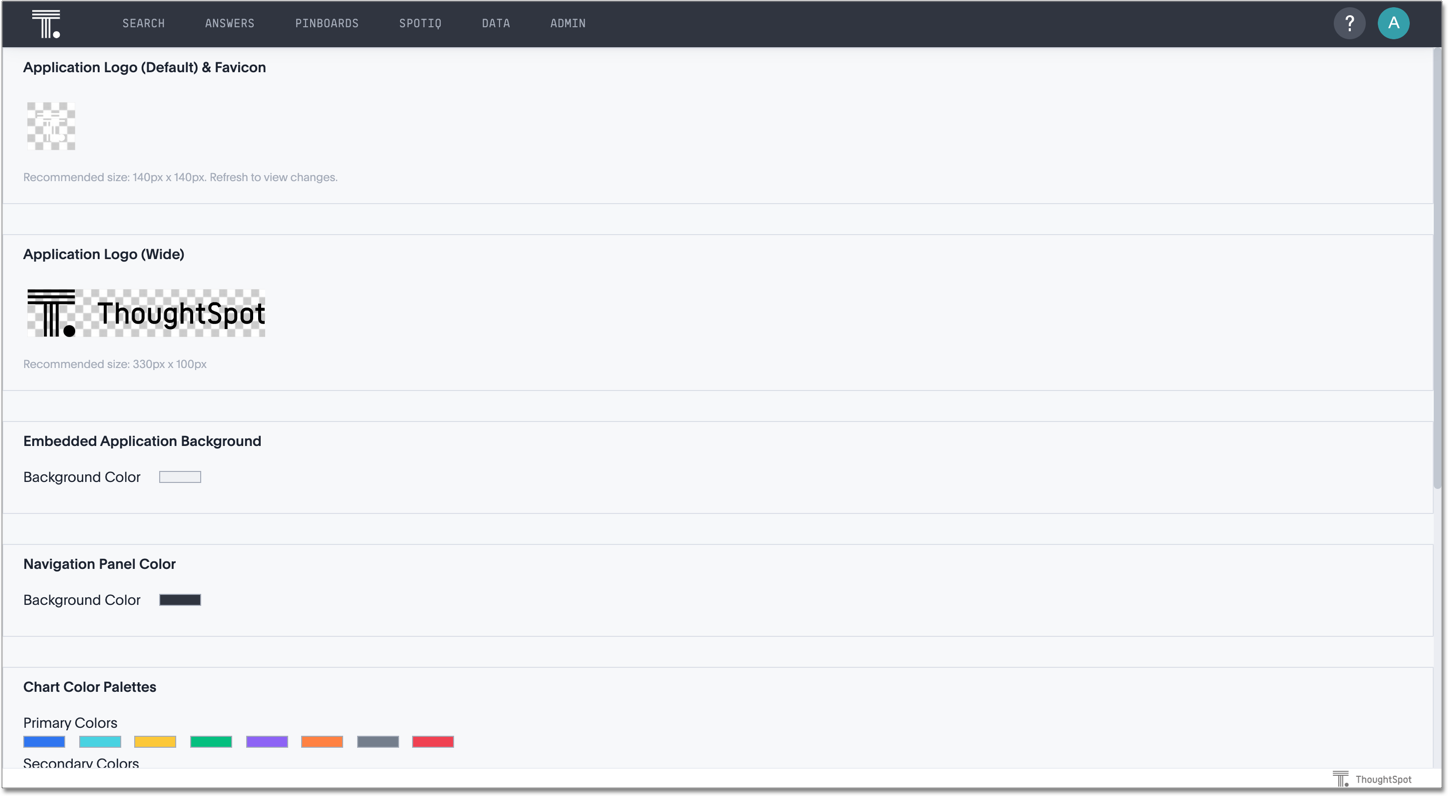
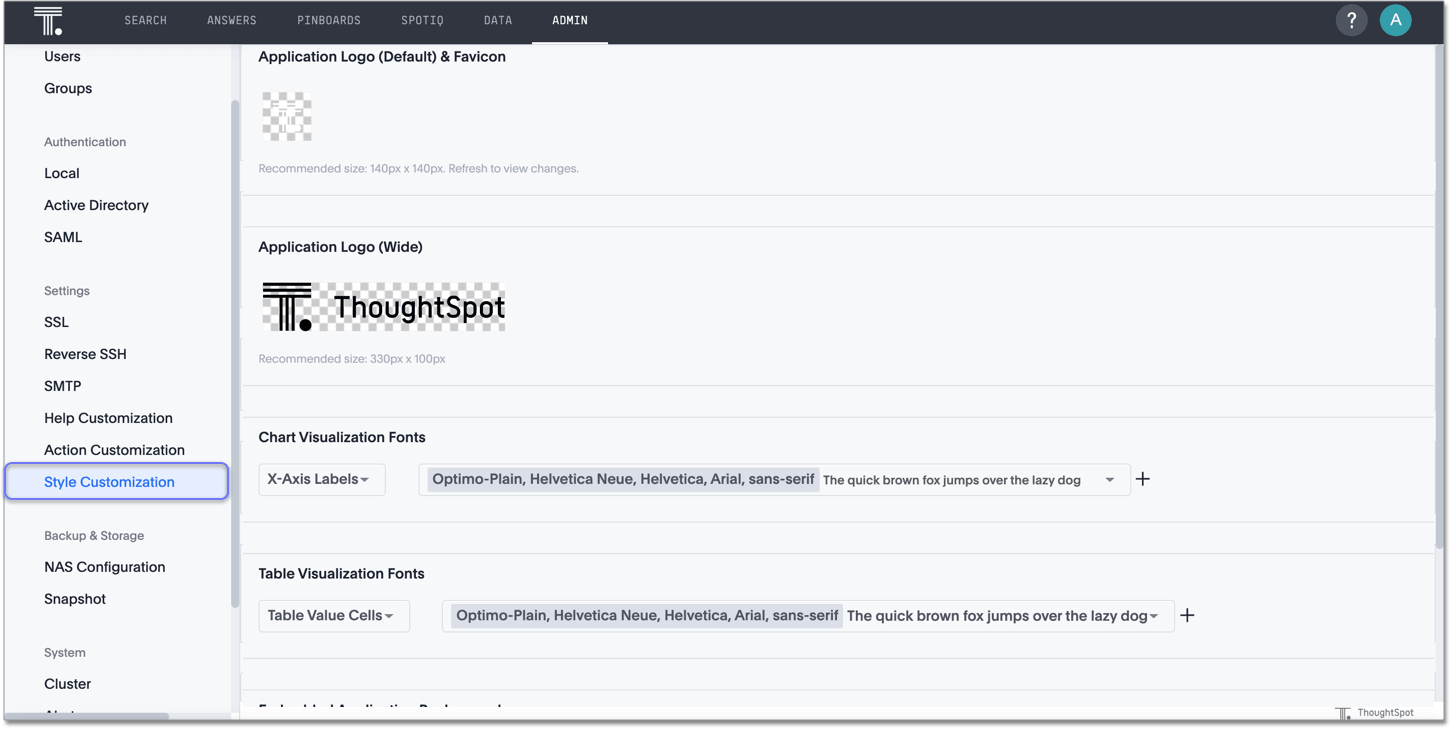
6.2.1 style customization

diff --git a/_app-integrate/custom-branding/perform-style-customization.md b/_app-integrate/custom-branding/perform-style-customization.md
@@ -1,43 +1,11 @@
 ---
 title: [Customize the application style]
 
-last_updated: 2/4/2020
+last_updated: 9/24/2020
 summary: "Style Customization allows you to change the overall style of your ThoughtSpot interface. "
 sidebar: mydoc_sidebar
 toc: false
 permalink: /:collection/:path.html
 ---
-Using style customization you can create a uniform ThoughtSpot experience that
-matches with your company's look and feel. To re-brand the interface, you can
-use the style customization option found on the Admin section in the ThoughtSpot
-web application. It lets you change the logo, application background color,
-chart color palettes, and footer text. For help with chart and table
-visualization fonts, contact ThoughtSpot support.
 
-This is especially useful if you're using the ThoughtSpot APIs for embedding
-visualizations from ThoughtSpot in your own web portal or application. You can
-make the visualizations match the look and feel of the portal or application in
-which they are embedded. For more information on using the APIs, see the
-ThoughtSpot Application Integration Guide.
-
-Style customization is not enabled by default. To enable style customization, [contact ThoughtSpot Support]({{ site.baseurl }}/appliance/contact.html). The ThoughtSpot logo in the middle of the page is automatically removed when Style Customization is enabled.
-
-## Change style customization
-
-Make changes to the style of your ThoughtSpot interface in the **Style Customization** page. This option gives you defined, yet impactful capabilities for re-branding the interface, so having some understanding of typography and color schemes would be helpful.
-
-To re-brand the interface:
-
-1. Log in to ThoughtSpot from a browser.
-
-2. Navigate to the Style Customization page using this URL, replacing `<cluster_IP>` with your cluster information: `https://<cluster_IP>/#/admin/settings/style-customization`.
-
-     ![Style Customization menu]({{ site.baseurl }}/images/style-customization-menu.png "Style Customization menu")
-
-    In the menu page, you can perform the following actions:
-
-    -   [Upload application logos](upload-application-logos.html#)
-    -   [Set chart and table visualization fonts](set-chart-and-table-visualization-fonts.html#)
-    -   [Choose a background color](choose-background-color.html#)
-    -   [Select chart color palettes](select-chart-color-palettes.html#)
-    -   [Change the footer text](change-the-footer-text.html#).
+{% include content/admin-portal/style-customization.md %}

diff --git a/_includes/content/admin-portal/style-customization.md b/_includes/content/admin-portal/style-customization.md
@@ -1,0 +1,36 @@
+Using style customization, you can create a uniform ThoughtSpot experience that
+matches with your company's look and feel. To re-brand the interface, you can
+use the style customization option found in the Administration Portal in the ThoughtSpot
+web application. It lets you change the logo, application background color,
+chart color palettes, and footer text. For help with chart and table
+visualization fonts, contact ThoughtSpot support.
+
+This is especially useful if you're using the ThoughtSpot APIs for embedding
+visualizations from ThoughtSpot in your own web portal or application. You can
+make the visualizations match the look and feel of the portal or application in
+which they are embedded. For more information on using the APIs, see the
+ThoughtSpot Application Integration Guide.
+
+Style customization is not enabled by default. To enable style customization, [contact ThoughtSpot Support]({{ site.baseurl }}/appliance/contact.html). The ThoughtSpot logo in the middle of the page is automatically removed when Style Customization is enabled.
+
+## Change style customization
+
+Make changes to the style of your ThoughtSpot interface in the **Style Customization** page. This option gives you defined, yet impactful capabilities for re-branding the interface, so having some understanding of typography and color schemes would be helpful.
+
+To re-brand the interface:
+
+1. Log in to ThoughtSpot from a browser.
+
+2. If you are on release 6.2.1 and later, navigate to the Admin Portal by clicking on the **Admin** tab from the top navigation bar. Select **Style Customization** from the side navigation bar that appears.
+
+    ![Admin Portal - Style Customization]({{ site.baseurl }}/images/style-customization-menu.png "Admin Portal - Style Customization")
+
+    If you are on release 6.2 or earlier, navigate to the Style Customization page using this URL, replacing `<cluster_IP>` with your cluster information: `https://<cluster_IP>/#/admin/settings/style-customization`.
+
+    In the **Style Customization** page, you can perform the following actions:
+
+    -   [Upload application logos](upload-application-logos.html#)
+    -   [Set chart and table visualization fonts](set-chart-and-table-visualization-fonts.html#)
+    -   [Choose a background color](choose-background-color.html#)
+    -   [Select chart color palettes](select-chart-color-palettes.html#)
+    -   [Change the footer text](change-the-footer-text.html#).

diff --git a/_app-integrate/custom-branding/select-chart-color-palettes.md b/_app-integrate/custom-branding/select-chart-color-palettes.md
@@ -8,8 +8,9 @@ permalink: /:collection/:path.html
 Although it is suggested that you stick with the default settings, it is possible to create your own appealing color palettes if done correctly.
 
 To select the chart color palettes:
-1. Navigate to the Style Customization page using this URL, replacing `<cluster_IP>` with your cluster information: `https://<cluster_IP>/#/admin/settings/style-customization`.<br>
-If the Style Customization option is not available, [Contact ThoughtSpot Support]({{ site.baseurl }}/appliance/contact.html) to enable it.
+1. If you are on release 6.2.1 and later, navigate to the Admin Portal by clicking on the **Admin** tab from the top navigation bar. Select **Style Customization** from the side navigation bar that appears.
+
+    If you are on release 6.2 or earlier, navigate to the Style Customization page using this URL, replacing `<cluster_IP>` with your cluster information: `https://<cluster_IP>/#/admin/settings/style-customization`. If this page is not available, [contact ThoughtSpot Support]({{ site.baseurl }}/appliance/contact.html) to enable style customization.
 
 1. Navigate to the **Chart Color Palettes** section at the bottom of the **Style Customization** page.
 

diff --git a/_app-integrate/custom-branding/set-chart-and-table-visualization-fonts.md b/_app-integrate/custom-branding/set-chart-and-table-visualization-fonts.md
@@ -9,7 +9,9 @@ You can add and edit fonts to customize the appearance of your charts and tables
 
 If you are confident in your knowledge of font visualizations, you can set your chart and table visualization fonts by following these steps:
 
-1. Navigate to the Style Customization page using this URL, replacing `<cluster_IP>` with your cluster information: `https://<cluster_IP>/#/admin/settings/style-customization`. If this page is not available, [contact ThoughtSpot Support]({{ site.baseurl }}/appliance/contact.html) to enable style customization.
+1. If you are on release 6.2.1 and later, navigate to the Admin Portal by clicking on the **Admin** tab from the top navigation bar. Select **Style Customization** from the side navigation bar that appears.
+
+    If you are on release 6.2 or earlier, navigate to the Style Customization page using this URL, replacing `<cluster_IP>` with your cluster information: `https://<cluster_IP>/#/admin/settings/style-customization`. If this page is not available, [contact ThoughtSpot Support]({{ site.baseurl }}/appliance/contact.html) to enable style customization.
 
 1. Click the **Add New** button under **Chart Visualization Fonts**.
 

diff --git a/_app-integrate/custom-branding/choose-background-color.md b/_app-integrate/custom-branding/choose-background-color.md
@@ -9,7 +9,9 @@ You can change the background color to match with your company's theme. The cust
 
 This feature is only applicable when embedding ThoughtSpot in an external web portal or application. To choose a background color:
 
-1. Navigate to the Style Customization page using this URL, replacing `<cluster_IP>` with your cluster information: `https://<cluster_IP>/#/admin/settings/style-customization`. If this page is not available, [contact ThoughtSpot Support]({{ site.baseurl }}/appliance/contact.html) to enable style customization.
+1. If you are on release 6.2.1 and later, navigate to the Admin Portal by clicking on the **Admin** tab from the top navigation bar. Select **Style Customization** from the side navigation bar that appears.
+
+    If you are on release 6.2 or earlier, navigate to the Style Customization page using this URL, replacing `<cluster_IP>` with your cluster information: `https://<cluster_IP>/#/admin/settings/style-customization`. If this page is not available, [contact ThoughtSpot Support]({{ site.baseurl }}/appliance/contact.html) to enable style customization.
 
 1. Click the background color box under **Application Background**.
 

diff --git a/_app-integrate/custom-branding/upload-application-logos.md b/_app-integrate/custom-branding/upload-application-logos.md
@@ -8,7 +8,9 @@ permalink: /:collection/:path.html
 ---
 To upload your own default and wide application logos:
 
-1. Navigate to the Style Customization page using this URL, replacing `<cluster_IP>` with your cluster information: `https://<cluster_IP>/#/admin/settings/style-customization`. If this page is not available, [contact ThoughtSpot Support]({{ site.baseurl }}/appliance/contact.html) to enable style customization.
+1. If you are on release 6.2.1 and later, navigate to the Admin Portal by clicking on the **Admin** tab from the top navigation bar. Select **Style Customization** from the side navigation bar that appears.
+
+    If you are on release 6.2 or earlier, navigate to the Style Customization page using this URL, replacing `<cluster_IP>` with your cluster information: `https://<cluster_IP>/#/admin/settings/style-customization`. If this page is not available, [contact ThoughtSpot Support]({{ site.baseurl }}/appliance/contact.html) to enable style customization.
 
 1. Click the default icon under **Application Logo (Default)** to browse for and select your own default logo.
 

diff --git a/_app-integrate/custom-branding/change-the-footer-text.md b/_app-integrate/custom-branding/change-the-footer-text.md
@@ -19,7 +19,10 @@ company-specific message.
 You can change the footer text to reflect your company's message. To change the
 footer text:
 
-1. Navigate to the Style Customization page using this URL, replacing `<cluster_IP>` with your cluster information: `https://<cluster_IP>/#/admin/settings/style-customization`. If this page is not available, [contact ThoughtSpot Support]({{ site.baseurl }}/appliance/contact.html) to enable style customization.
+1. If you are on release 6.2.1 and later, navigate to the Admin Portal by clicking on the **Admin** tab from the top navigation bar. Select **Style Customization** from the side navigation bar that appears.
+
+    If you are on release 6.2 or earlier, navigate to the Style Customization page using this URL, replacing `<cluster_IP>` with your cluster information: `https://<cluster_IP>/#/admin/settings/style-customization`. If this page is not available, [contact ThoughtSpot Support]({{ site.baseurl }}/appliance/contact.html) to enable style customization.
+
 
 1. Click the text box under **Footer text**.
 2. Enter your new text message.

diff --git a/_admin/admin-portal/style-customization.md b/_admin/admin-portal/style-customization.md
@@ -1,0 +1,10 @@
+---
+title: [Style customization]
+last_updated: 9/24/2020
+summary: Style Customization allows you to change the overall style of your ThoughtSpot interface.
+toc: true
+sidebar: mydoc_sidebar
+permalink: /:collection/:path.html
+---
+
+{% include content/admin-portal/style-customization.md %}
